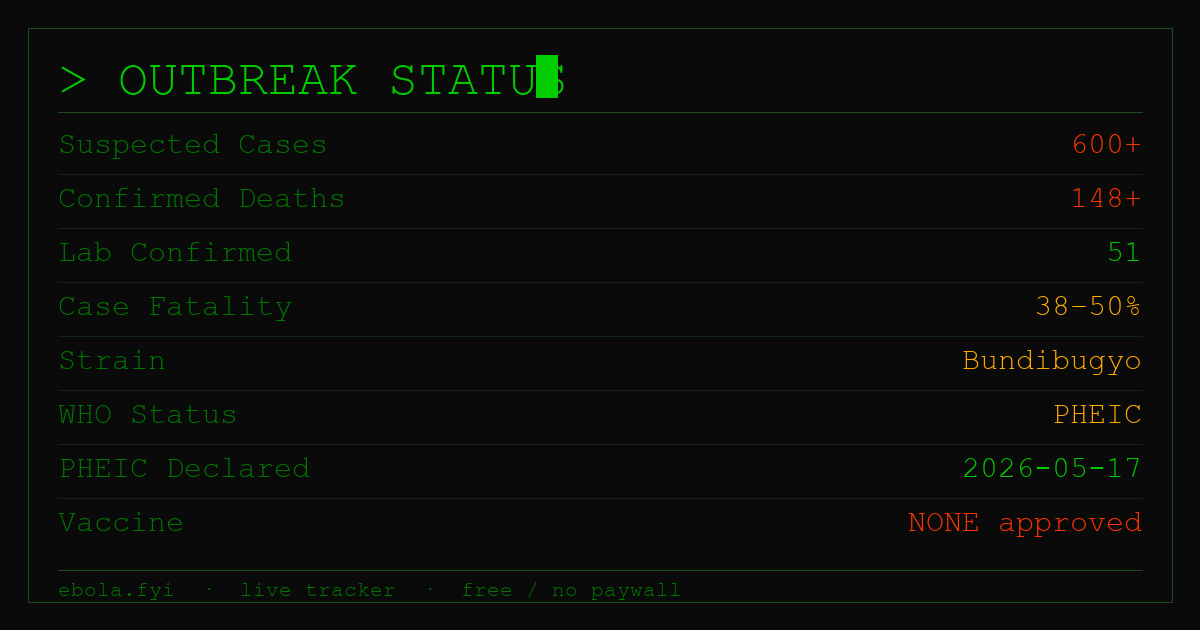
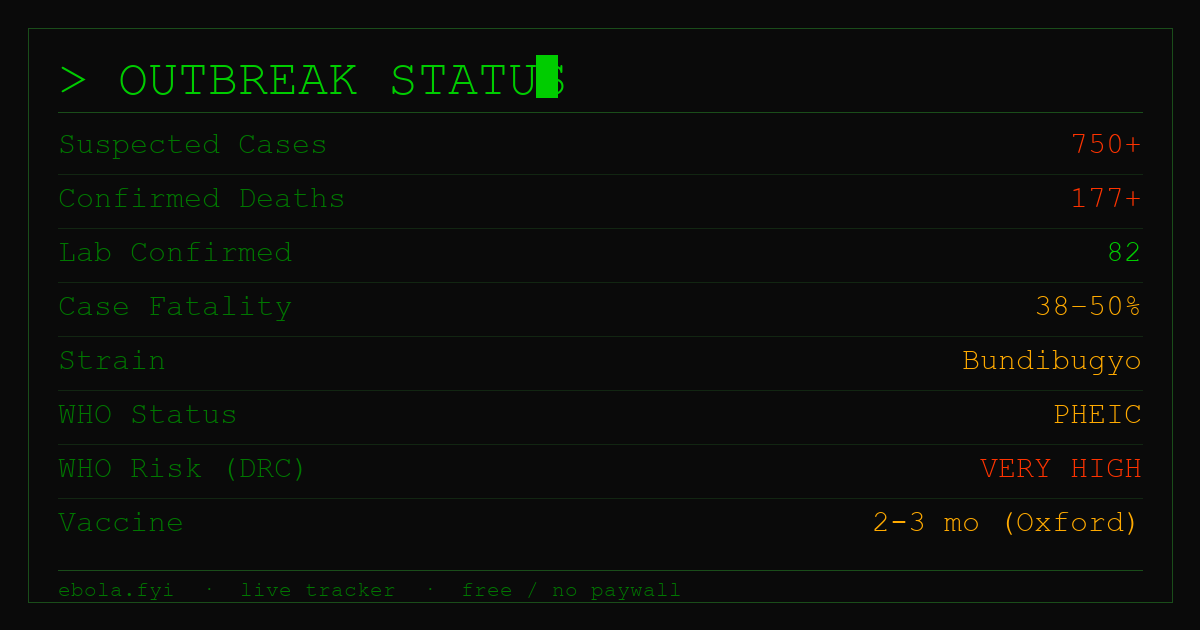
May 22 update: 750+ suspected, 177+ deaths, 82 confirmed, Oxford vaccine
- Numbers: 750+ suspected / 82 confirmed / 177+ deaths (from WHO DG Tedros)
- WHO upgrades DRC risk to VERY HIGH; regional risk now HIGH
- Oxford ChAdOx1 vaccine in animal trials, human trials 2-3 months
- Serum Institute of India lined up to mass produce
- IFRC door-to-door in Mongbwalu combating misinformation
- OG image, meta description, boot sequence all updated
- Last updated: May 22

diff --git a/templates/index.html b/templates/index.html
@@ -4,7 +4,7 @@
   <meta charset="UTF-8">
   <meta name="viewport" content="width=device-width, initial-scale=1.0">
   <title>Ebola Outbreak Tracker — 2026 Bundibugyo Strain | ebola.fyi</title>
-  <meta name="description" content="Live tracker for the 2026 Ebola Bundibugyo outbreak in DRC and Uganda. WHO declared PHEIC May 17. 148+ deaths, 600+ suspected cases. Independent, free, no paywall.">
+  <meta name="description" content="Live tracker for the 2026 Ebola Bundibugyo outbreak in DRC and Uganda. WHO declared PHEIC May 17. 177+ deaths, 750+ suspected cases. Independent, free, no paywall.">
   <meta name="keywords" content="ebola 2026, ebola outbreak, bundibugyo, DRC ebola, Uganda ebola, WHO PHEIC, ebola tracker, ebola cases, ebola deaths, ituri province, ebola map">
   <meta name="author" content="Bre Roz">
   <meta name="robots" content="index, follow">
@@ -13,7 +13,7 @@
   <meta property="og:type"        content="website">
   <meta property="og:url"         content="https://ebola.fyi/">
   <meta property="og:title"       content="Ebola Outbreak Tracker — 2026 Bundibugyo Strain">
-  <meta property="og:description" content="600+ suspected cases · 148+ deaths · WHO PHEIC declared May 17, 2026. Live tracking of the Bundibugyo Ebola outbreak in DRC and Uganda. Free, no paywall.">
+  <meta property="og:description" content="750+ suspected cases · 177+ deaths · WHO PHEIC declared May 17, 2026. Live tracking of the Bundibugyo Ebola outbreak in DRC and Uganda. Free, no paywall.">
   <meta property="og:image"       content="https://ebola.fyi/static/og-image.png">
   <meta property="og:image:width" content="1200">
   <meta property="og:image:height" content="630">
@@ -149,15 +149,15 @@
 
         <div class="stat-row">
           <span class="stat-label">Suspected Cases</span>
-          <span class="stat-value danger">600+</span>
+          <span class="stat-value danger">750+</span>
         </div>
         <div class="stat-row">
           <span class="stat-label">Confirmed Deaths</span>
-          <span class="stat-value danger">148+</span>
+          <span class="stat-value danger">177+</span>
         </div>
         <div class="stat-row">
           <span class="stat-label">Lab Confirmed</span>
-          <span class="stat-value warn">51</span>
+          <span class="stat-value warn">82</span>
         </div>
         <div class="stat-row">
           <span class="stat-label">Case Fatality</span>
@@ -210,6 +210,18 @@
         <div style="font-size:9px;color:var(--text-faint);padding:4px 12px">s=suspected c=confirmed d=deaths</div>
 
         <div class="left-section-title" style="margin-top:10px">&gt; RECENT UPDATES</div>
+        <div class="update-item">
+          <span class="update-date">2026-05-22 <a class="update-src" href="https://x.com/DrTedros/status/2057786743084953626" target="_blank" rel="noopener" onclick="track('source_click',{outlet:'WHO/Tedros',date:'2026-05-22'})">[src]</a></span>
+          <span style="color:var(--red)">&#x25B2; NUMBERS JUMP:</span> 750+ suspected &bull; 177+ deaths &bull; 82 confirmed &bull; WHO upgrades DRC risk to <strong>VERY HIGH</strong>
+        </div>
+        <div class="update-item">
+          <span class="update-date">2026-05-22 <a class="update-src" href="https://www.bbc.com/news/articles/cy82gkr7xzlo" target="_blank" rel="noopener" onclick="track('source_click',{outlet:'BBC',date:'2026-05-22'})">[src]</a></span>
+          <span style="color:var(--amber)">&#x25B2; VACCINE:</span> Oxford ChAdOx1 candidate for Bundibugyo &bull; animal trials underway &bull; could reach human trials in 2&ndash;3 months &bull; Serum Institute of India to mass produce
+        </div>
+        <div class="update-item">
+          <span class="update-date">2026-05-22 <a class="update-src" href="https://www.reuters.com/business/healthcare-pharmaceuticals/volunteers-go-door-to-door-congo-tackle-ebola-rumors-aid-network-says-2026-05-22/" target="_blank" rel="noopener" onclick="track('source_click',{outlet:'Reuters',date:'2026-05-22'})">[src]</a></span>
+          IFRC volunteers door-to-door in Mongbwalu combating Ebola misinformation &bull; "Ebola is fabricated" rumors spreading
+        </div>
         <div class="update-item">
           <span class="update-date">2026-05-21 <a class="update-src" href="https://abc7news.com/post/residents-burn-ebola-treatment-center-congo-anger-grows-outbreak/19145369/" target="_blank" rel="noopener" onclick="track('source_click',{outlet:'AP/ABC7',date:'2026-05-21'})">[src]</a></span>
           <span style="color:var(--red)">&#x25B2; TREATMENT CENTER BURNED</span> in Rwampara &bull; locals angered by burial protocol blocking retrieval of body

diff --git a/static/js/app.js b/static/js/app.js
@@ -8,7 +8,7 @@
     { text: 'DECRYPTING BUNDIBUGYO STRAIN DATA...', cls: '' },
     { text: 'CROSS-REFERENCING REUTERS / AP / NBC...', cls: 'dim' },
     { text: 'OUTBREAK CONFIRMED — ACTIVE PHEIC STATUS', cls: '' },
-    { text: '600+ SUSPECTED  ·  148+ DEATHS  ·  51 CONFIRMED', cls: '' },
+    { text: '750+ SUSPECTED  ·  177+ DEATHS  ·  82 CONFIRMED', cls: '' },
     { text: '', cls: '' },
     { text: '[ ACCESS GRANTED ]', cls: 'access' },
   ];
@@ -299,7 +299,7 @@ const SitNav = {
 
   // Outbreak status by ISO alpha-3
   const outbreakStatus = {
-    'COD': { status: 'active',     label: 'DR Congo — ACTIVE OUTBREAK', cases: '600+ susp / 51 conf / 148+ dead · Ituri, North Kivu, South Kivu' },
+    'COD': { status: 'active',     label: 'DR Congo — ACTIVE OUTBREAK · WHO: VERY HIGH RISK', cases: '750+ susp / 82 conf / 177+ dead · Ituri, North Kivu, South Kivu' },
     'UGA': { status: 'confirmed',  label: 'Uganda — Confirmed cases',    cases: '2 confirmed / 1 dead' },
     'DEU': { status: 'treatment',  label: 'Germany — Treatment (1 US missionary)', cases: 'Peter Stafford · Charité Hospital, Berlin' },
     'CZE': { status: 'monitoring', label: 'Czech Republic — Monitoring', cases: '1 US high-risk contact' },

diff --git a/app.py b/app.py
@@ -24,7 +24,7 @@ def load_outbreak():
 
 
 # Update this string each time you push new data
-LAST_UPDATED = "May 21, 2026 · 8:00 AM"
+LAST_UPDATED = "May 22, 2026 · 8:00 AM"
 
 
 @app.route("/")
@@ -74,9 +74,9 @@ def llms():
 ## Current Status (as of May 21, 2026)
 
 - Strain: Bundibugyo virus (BDBV) — no approved vaccine or treatment
-- Suspected cases: 600+
-- Lab-confirmed cases: 51
-- Deaths: 148+
+- Suspected cases: 750+
+- Lab-confirmed cases: 82
+- Deaths: 177+
 - WHO status: PHEIC declared May 17, 2026
 - Primary location: Ituri Province, Democratic Republic of Congo
 - Active zones: Bunia, Mongbwalu, Nyakunde, Goma, Butembo, North Kivu, South Kivu (Bukavu — NEW)